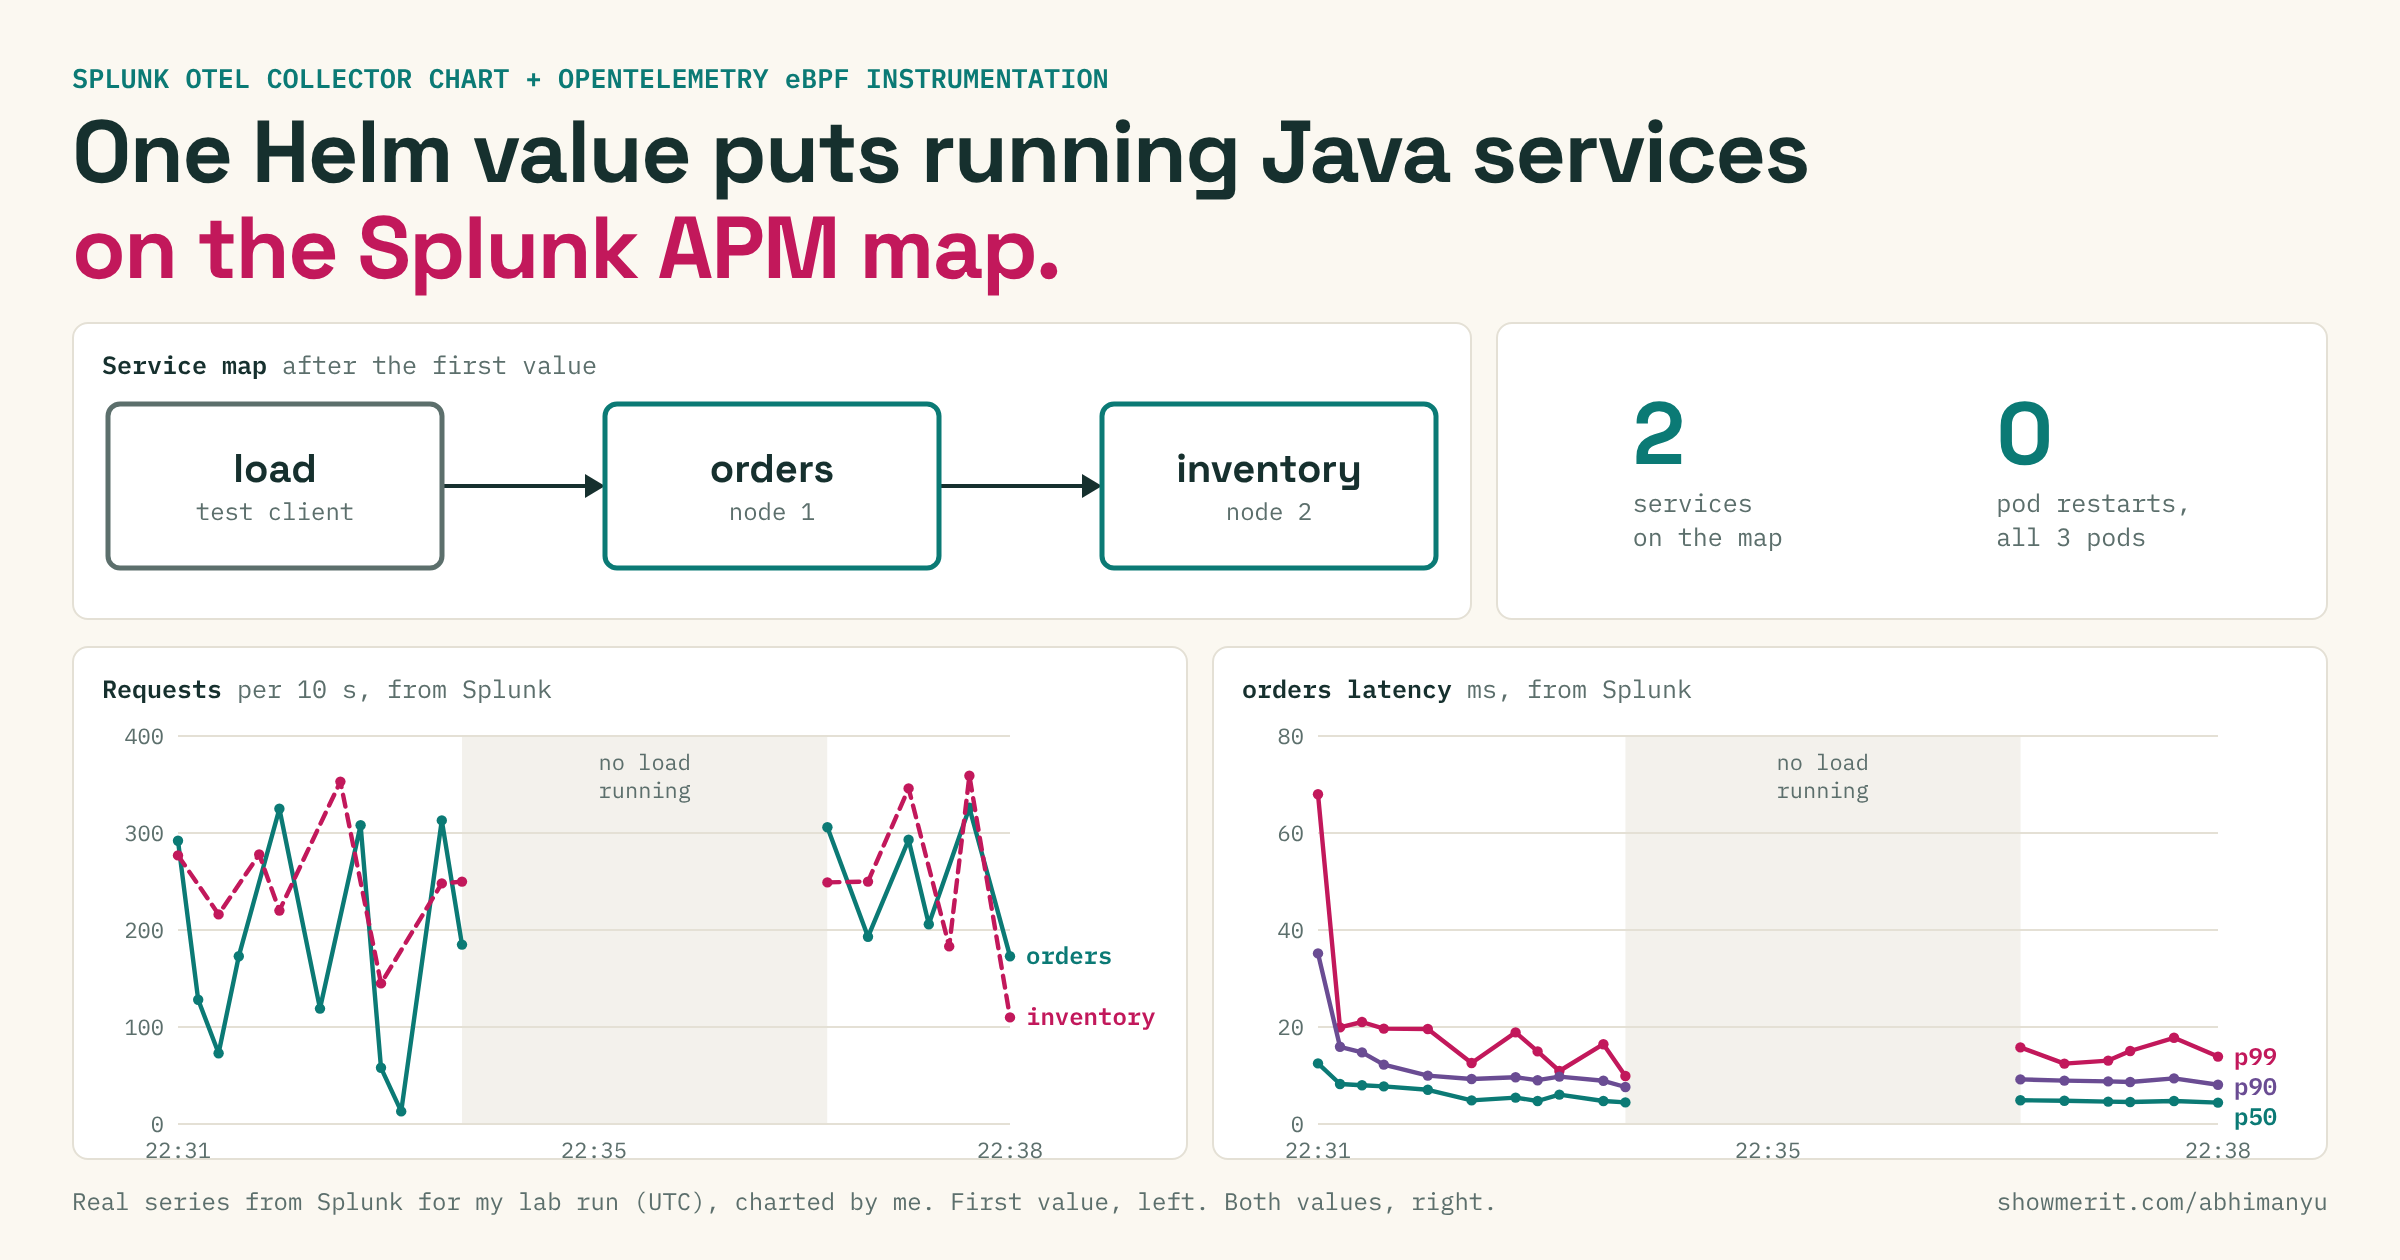
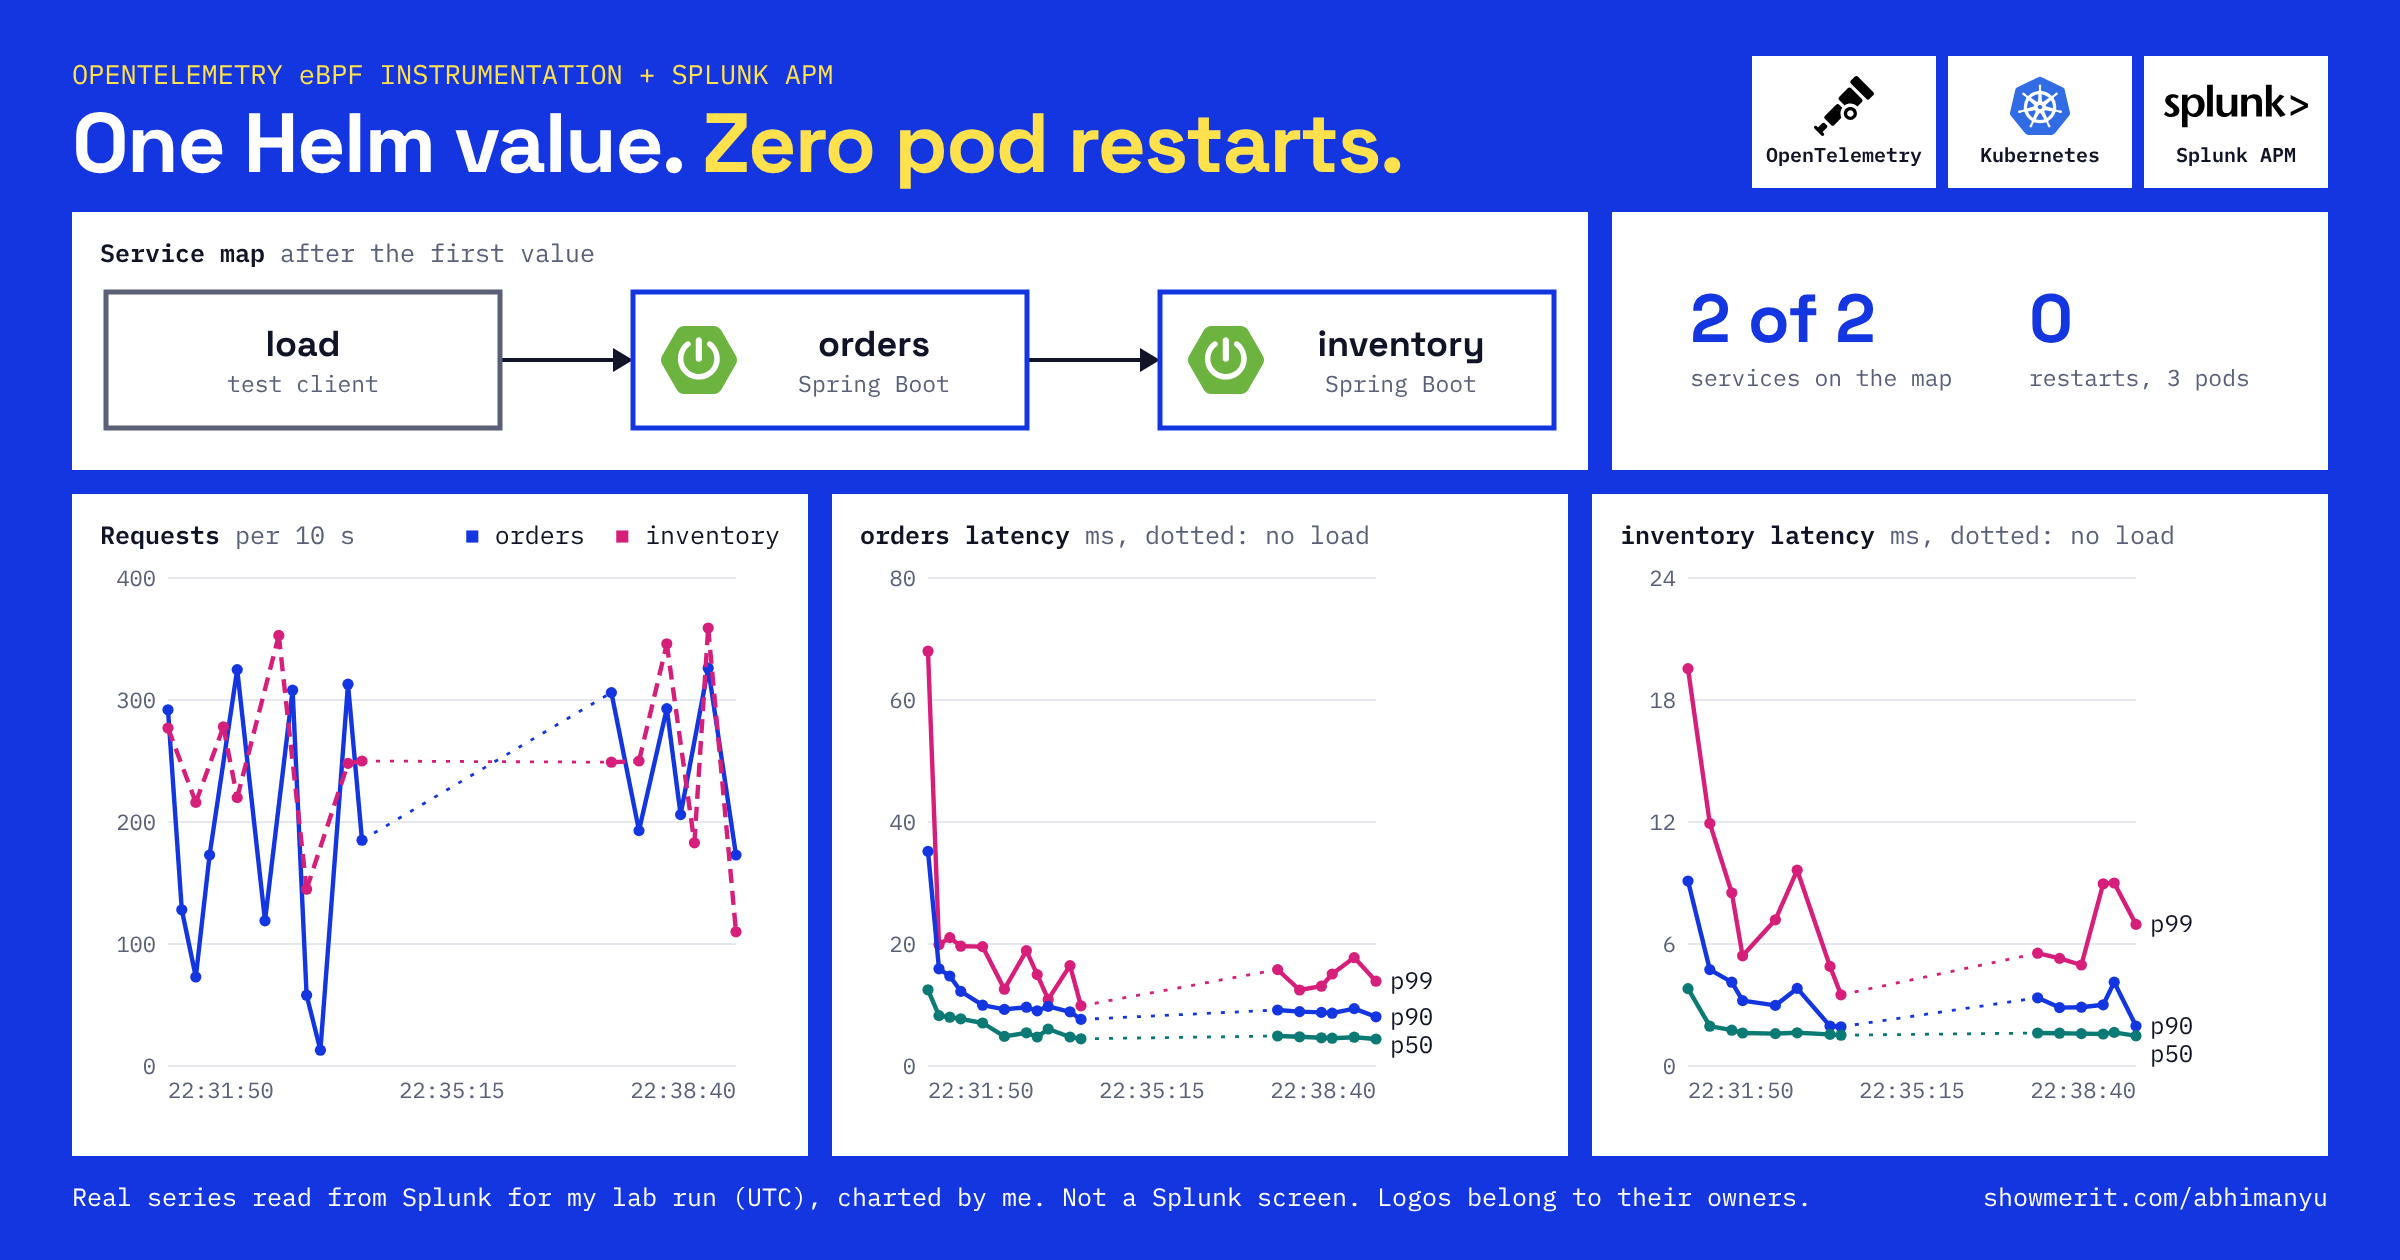
Redraw the article images in the new standard

diff --git a/chat-work/163/charts/build.py b/chat-work/163/charts/build.py
@@ -1,0 +1,99 @@
+# Charts for issue 163, in the team-admin/visuals standard. Series only from apm-data run 42124200881; every other value from replicate run 42119202877.
+import asyncio,base64,json,pathlib,datetime as dt
+from playwright.async_api import async_playwright
+fs=pathlib.Path("../fig3/node_modules/@fontsource")
+def font(pkg,fam,w):
+    b=base64.b64encode((fs/pkg/f"files/{pkg}-latin-{w}-normal.woff2").read_bytes()).decode()
+    return f"@font-face{{font-family:'{fam}';font-weight:{w};src:url(data:font/woff2;base64,{b}) format('woff2')}}"
+F="".join([font("space-grotesk","Space Grotesk",500),font("space-grotesk","Space Grotesk",700),font("ibm-plex-mono","Plex",400),font("ibm-plex-mono","Plex",600)])
+rows=json.load(open("../fig163/series.json"))
+LOGO=json.load(open("/home/claude/team-admin/visuals/logos.json"))
+def logo(n,size,color=None):
+    l=LOGO[n]; return f'<svg viewBox="0 0 24 24" width="{size}" height="{size}" style="flex:none"><path fill="{color or "#"+l["hex"]}" d="{l["path"]}"/></svg>'
+def nlogo(n,x,y,size):
+    l=LOGO[n]; return f'<svg x="{x}" y="{y}" viewBox="0 0 24 24" width="{size}" height="{size}"><path fill="#{l["hex"]}" d="{l["path"]}"/></svg>'
+S={(r["metric"],r["service"]):dict(map(tuple,r["points"])) for r in rows}
+BLUE,PINK,TEAL="#1436E0","#D61F7A","#0B7A75"; INK,MID,GRID="#101426","#596078","#E6E8F0"
+clock=lambda ms:dt.datetime.fromtimestamp(ms/1000,dt.timezone.utc).strftime("%H:%M:%S")
+STEP=30000     # the series report every 10 to 20 s. Only a longer stretch counts as no reading
+def lines(w,h,series,top,label=True):
+    """Real points only, each one marked. A dotted join crosses the stretch with no load, so it can't read as measured traffic."""
+    ts=[t for _,d,_,_ in series for t in d]; t0,t1=min(ts),max(ts)
+    L,T,B,R=34,8,20,(82 if label else 22); X=lambda t:L+(t-t0)/(t1-t0)*(w-L-R); Y=lambda v:h-B-(v/top)*(h-B-T); s=""
+    for i in range(5):
+        v=top*i/4; y=Y(v)
+        s+=f'<line x1="{L}" x2="{w-R}" y1="{y:.1f}" y2="{y:.1f}" stroke="{GRID}"/><text x="{L-6}" y="{y+4:.1f}" text-anchor="end" fill="{MID}" font-size="11">{v:.0f}</text>'
+    ends=[]
+    for name,d,c,dash in series:
+        pts=sorted(d.items())
+        for (a,va),(b,vb) in zip(pts,pts[1:]):
+            gap=' stroke-dasharray="2 5"' if b-a>STEP else dash
+            s+=f'<line x1="{X(a):.1f}" y1="{Y(va):.1f}" x2="{X(b):.1f}" y2="{Y(vb):.1f}" stroke="{c}" stroke-width="{1.4 if b-a>STEP else 2.2}"{gap}/>'
+        for t,v in pts: s+=f'<circle cx="{X(t):.1f}" cy="{Y(v):.1f}" r="2.8" fill="{c}"/>'
+        ends.append([name,Y(pts[-1][1]),c])
+    ends.sort(key=lambda e:e[1])
+    for i in range(1,len(ends)): ends[i][1]=max(ends[i][1],ends[i-1][1]+14)
+    if ends and ends[-1][1]>h-B-2:
+        over=ends[-1][1]-(h-B-2); ends=[[n,y-over,c] for n,y,c in ends]
+    for name,y,c in (ends if label else []): s+=f'<text x="{w-R+7}" y="{y+4:.1f}" fill="{INK}" font-size="12">{name}</text>'
+    for t,a in ((t0,"start"),(t0+(t1-t0)//2,"middle"),(t1,"end")):
+        s+=f'<text x="{X(t):.1f}" y="{h-4}" text-anchor="{a}" fill="{MID}" font-size="11">{clock(t)}</text>'
+    return f'<svg viewBox="0 0 {w} {h}" width="{w}" height="{h}" font-family="Plex">{s}</svg>'
+ms=lambda m,sv:{t:v/1e6 for t,v in S[(m,sv)].items()}
+DASH=' stroke-dasharray="7 4"'
+def req(w,h): return lines(w,h,[("orders",S[("requests","orders")],BLUE,""),("inventory",S[("requests","inventory")],PINK,DASH)],400,label=False)
+def lat(w,h,sv="orders",top=80): return lines(w,h,[("p99",ms("latency_p99",sv),PINK,""),("p90",ms("latency_p90",sv),BLUE,""),("p50",ms("latency_p50",sv),TEAL,"")],top)
+key=f'<span style="color:{BLUE}">&#9632;</span> orders &nbsp;<span style="color:{PINK}">&#9632;</span> inventory'
+def nd(x,y,w,h,n,sub,lg=None,c=BLUE):
+    tx=x+w/2+(22 if lg else 0)
+    return f'<rect x="{x}" y="{y}" width="{w}" height="{h}" fill="#fff" stroke="{c}" stroke-width="2.5"/>{nlogo(lg,x+14,y+h/2-19,38) if lg else ""}<text x="{tx}" y="{y+h/2-2}" text-anchor="middle" fill="{INK}" font-family="Space Grotesk" font-weight="700" font-size="18">{n}</text><text x="{tx}" y="{y+h/2+16}" text-anchor="middle" fill="{MID}" font-family="Plex" font-size="11.5">{sub}</text>'
+def smap(W):
+    """Exactly what the Splunk topology returned with the first value on: load to orders, orders to inventory."""
+    nw=int(W*.27); g=(W-3*nw-6)/2; x=[3,3+nw+g,3+2*(nw+g)]; y,h=6,68; my=y+h/2
+    arrow=lambda x1,x2:f'<line x1="{x1}" x2="{x2-9}" y1="{my}" y2="{my}" stroke="{INK}" stroke-width="2"/><path d="M{x2-10} {my-6}l10 6-10 6z" fill="{INK}"/>'
+    a=arrow(x[0]+nw,x[1])+arrow(x[1]+nw,x[2])
+    return f'<svg viewBox="0 0 {W} {y+h+4}" width="{W}" height="{y+h+4}">{a}{nd(x[0],y,nw,h,"load","test client",None,MID)}{nd(x[1],y,nw,h,"orders","Spring Boot",lg="spring")}{nd(x[2],y,nw,h,"inventory","Spring Boot",lg="spring")}</svg>'
+BASE=f"""*{{box-sizing:border-box;margin:0;padding:0}}{F}body{{background:#1436E0;-webkit-font-smoothing:antialiased;font-family:'Space Grotesk';color:#fff}}
+.p{{background:#fff;color:{INK};padding:12px 14px}}.h{{font:600 12.5px 'Plex';color:{INK};margin-bottom:6px}}.u{{color:{MID};font-weight:400}}
+.s b{{display:block;font:700 34px/1 'Space Grotesk';color:{BLUE};white-space:nowrap}}.s span{{font:400 11.5px 'Plex';color:{MID}}}
+.k{{font:400 11.5px 'Plex';color:{MID}}}"""
+chip=lambda n,t,z=30:f'<div style="display:flex;flex-direction:column;align-items:center;gap:3px;background:#fff;color:{INK};width:92px;height:66px;justify-content:center;font:600 10px Plex;overflow:hidden"><div style="height:30px;display:flex;align-items:center">{logo(n,z)}</div>{t}</div>'
+FOOT="Real series read from Splunk for my lab run (UTC), charted by me. Not a Splunk screen. Logos belong to their owners."
+COVER=f"""<!doctype html><meta charset=utf-8><style>{BASE}</style><body style="width:1200px;height:630px;padding:28px 36px 24px;display:flex;flex-direction:column;gap:12px;overflow:hidden">
+<div style="display:flex;justify-content:space-between;align-items:flex-end;gap:16px"><div><div style="font:400 13.5px 'Plex';color:#FFE14D">OPENTELEMETRY eBPF INSTRUMENTATION + SPLUNK APM</div><div style="font:700 42px/1.08 'Space Grotesk';letter-spacing:-.02em;margin-top:3px">One Helm value. <span style="color:#FFE14D">Zero pod restarts.</span></div></div>
+<div style="display:flex;gap:6px">{chip("otel","OpenTelemetry")}{chip("k8s","Kubernetes")}{chip("splunk","Splunk APM",72)}</div></div>
+<div style="display:flex;gap:12px"><div class=p style="flex:1"><div class=h>Service map <span class=u>after the first value</span></div>{smap(730)}</div>
+<div class=p style="width:366px;display:flex;justify-content:space-around;align-items:center;padding:12px 20px"><div class=s><b>2 of 2</b><span>services on the map</span></div><div class=s><b>0</b><span>restarts, 3 pods</span></div></div></div>
+<div style="display:flex;gap:12px;flex:1;min-height:0">
+<div class=p style="flex:1;min-width:0"><div class=h>Requests <span class=u>per 10 s</span> <span style="float:right;font-weight:400">{key}</span></div>{req(340,272)}</div>
+<div class=p style="flex:1;min-width:0"><div class=h>orders latency <span class=u>ms, dotted: no load</span></div>{lat(340,272)}</div>
+<div class=p style="flex:1;min-width:0"><div class=h>inventory latency <span class=u>ms, dotted: no load</span></div>{lat(340,272,"inventory",24)}</div></div>
+<div style="display:flex;justify-content:space-between;font:400 12.5px 'Plex'"><span>{FOOT}</span><span>showmerit.com/abhimanyu</span></div></body>"""
+WIDE=f"""<!doctype html><meta charset=utf-8><style>{BASE}</style><body style="width:900px;padding:16px;display:flex;flex-direction:column;gap:10px">
+<div class=p><div class=h>Service map <span class=u>what Splunk APM returned with the first value on</span></div>{smap(836)}</div>
+<div class=p><div class=h>Requests <span class=u>per 10 s. The dotted stretch is the pause between load runs.</span> <span style="float:right;font-weight:400">{key}</span></div>{req(842,190)}</div>
+<div style="display:flex;gap:10px"><div class=p style="flex:1;min-width:0"><div class=h>orders latency <span class=u>ms</span></div>{lat(400,190)}</div><div class=p style="flex:1;min-width:0"><div class=h>inventory latency <span class=u>ms</span></div>{lat(400,190,"inventory",24)}</div></div>
+<div style="font:400 12px 'Plex'">{FOOT}</div></body>"""
+spans=[("load",0,"GET /orders/*","the test client",MID,None),("orders",1,"GET /orders/{id}","the request arrives",BLUE,"spring"),("orders",2,"GET /stock/{id}","the call leaves for the other node",BLUE,"spring"),("inventory",3,"GET /stock/{id}","the call arrives",PINK,"spring")]
+row=lambda s,d,op,note,c,lg:f'''<div style="display:flex;align-items:center;height:46px;margin-left:{d*30}px;border-left:5px solid {c};padding-left:12px;margin-bottom:8px;background:#F5F6FB"><div style="width:124px;color:{MID};font:400 13px 'Plex';display:flex;align-items:center;gap:7px">{logo(lg,18) if lg else ""}{s}</div><div style="font:600 14px 'Plex';color:{INK};width:190px">{op}</div><div style="font:400 12.5px 'Plex';color:{MID}">{note}</div></div>'''
+TRACE=f"""<!doctype html><meta charset=utf-8><style>{BASE}</style><body style="width:900px;padding:16px;display:flex;flex-direction:column;gap:10px">
+<div class=p style="padding:16px 18px"><div class=h>One order across two nodes <span class=u>with both Helm values on</span></div><div class=k style="margin-bottom:12px">trace 07515449a2bc2d3973c9a54e05c5a3c3, order from each span's parent</div>{"".join(row(*x) for x in spans)}</div>
+<div style="display:flex;gap:10px"><div class=p style="flex:1;padding:14px 18px"><div class=s><b>39 of 39</b><span>traces found in Splunk held both services, 48 IDs searched, both values on</span></div></div>
+<div class=p style="flex:1;padding:14px 18px"><div class=s><b style="color:{MID}">Unmeasured</b><span>first value alone: 0 of 56 sampled IDs came back in the 90-second wait</span></div></div></div>
+<div style="font:400 12px 'Plex'">Spans from the Splunk trace API, charted by me. Not a Splunk screen. Logos belong to their owners.</div></body>"""
+pods=[("orders","spring","f0c67713-a216-4a19-a520-9d124ff13fd2","22:26:49Z"),("inventory","spring","ca653889-b1a6-4447-936a-93d5e12206a2","22:26:50Z"),("postgres","postgres","d2e39469-51ee-4d5a-ad27-b8f3ed5abfc2","22:26:55Z")]
+th="".join(f'<th style="text-align:left;font:600 11.5px Plex;color:{MID};padding:8px 10px;border-bottom:2px solid {INK}">{x}</th>' for x in ("Pod","UID, identical at all three checks","Started","Restarts"))
+tr="".join(f'<tr><td style="padding:11px 10px;font:600 14px Plex;white-space:nowrap"><span style="display:inline-flex;align-items:center;gap:8px">{logo(l,20)}{n}</span></td><td style="padding:11px 10px;font:400 12.5px Plex">{u}</td><td style="padding:11px 10px;font:400 12.5px Plex">{t}</td><td style="padding:11px 10px;font:700 24px Space Grotesk;color:{BLUE}">0</td></tr>' for n,l,u,t in pods)
+PODS=f"""<!doctype html><meta charset=utf-8><style>{BASE}</style><body style="width:900px;padding:16px;display:flex;flex-direction:column;gap:10px"><div class=p style="padding:14px 16px"><div class=h>The same pods before OBI, after the first value and after the second</div><table style="border-collapse:collapse;width:100%">{th}{tr}</table></div>
+<div style="font:400 12px 'Plex'">Values printed by the lab's kubectl snapshots, charted by me. Logos belong to their owners.</div></body>"""
+async def main():
+    async with async_playwright() as p:
+        b=await p.chromium.launch()
+        for n,h,w,hh in (("cover",COVER,1200,630),("step-2",WIDE,900,100),("step-3",TRACE,900,100),("step-4",PODS,900,100)):
+            pg=await b.new_page(viewport={"width":w,"height":hh},device_scale_factor=2)
+            await pg.set_content(h); await pg.evaluate("document.fonts.ready"); await pg.wait_for_timeout(300)
+            over=await pg.evaluate("[...document.querySelectorAll('.p,body')].filter(e=>e.scrollWidth>e.clientWidth+1||e.scrollHeight>e.clientHeight+1).length")
+            print(n,"overflowing boxes:",over)
+            await pg.screenshot(path=f"{n}.png",full_page=n!="cover")
+        await b.close()
+asyncio.run(main())
